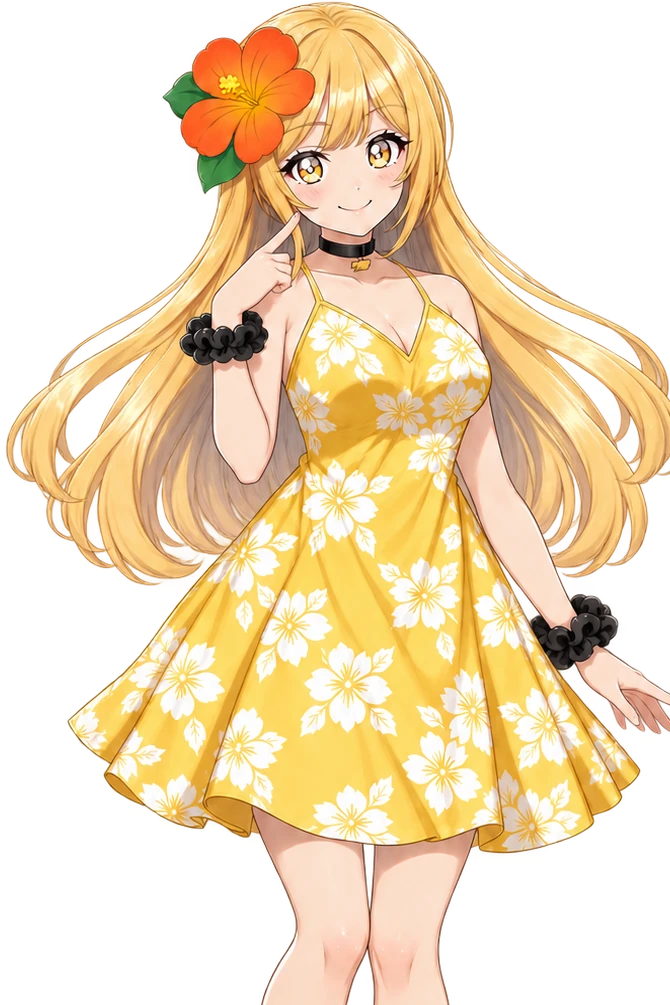
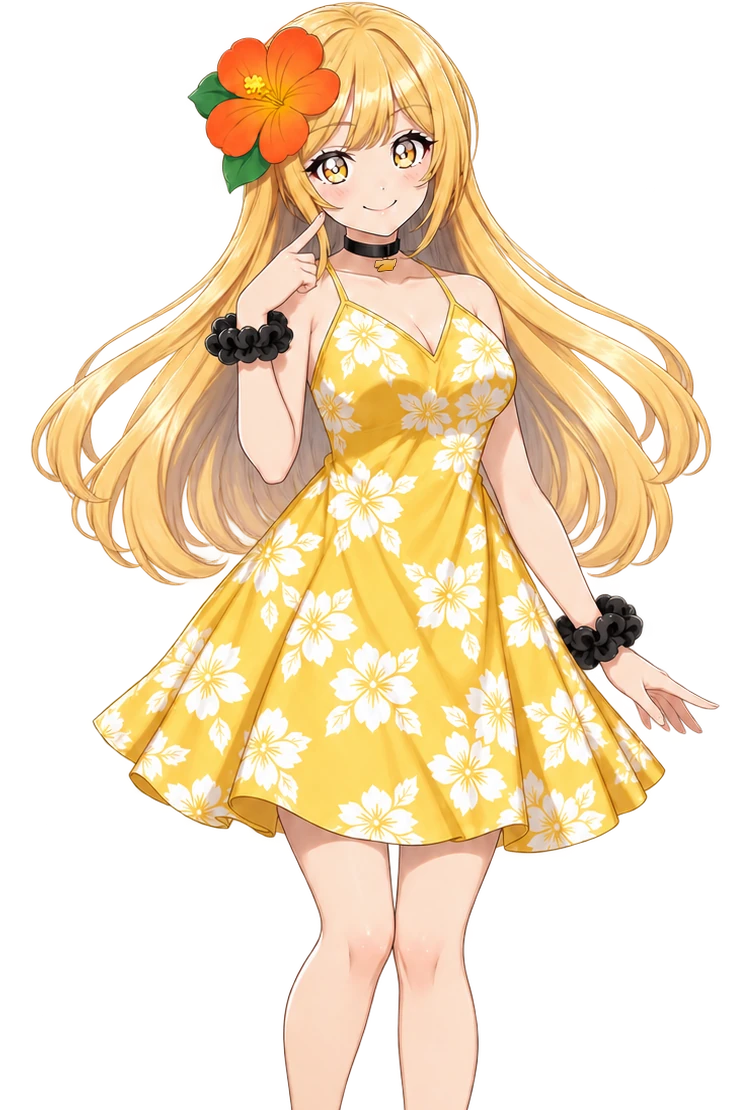
LP: ヒーローのキナナを修正版の絵に差し替え（右手が切れないように切り出しを広げ、表示幅を合わせて大きさは据え置き）

diff --git a/public/editorial/styles.css b/public/editorial/styles.css
@@ -1,8 +1,8 @@
 :root{--paper:#fafbfc;--ink:#111216;--muted:#62656c;--orange:#ef6b12;--band:#ff8b32;--line:#dedfe3;--soft:#eef0f3;font-family:-apple-system,BlinkMacSystemFont,"Hiragino Kaku Gothic ProN","Yu Gothic",sans-serif;color:var(--ink);background:var(--paper);font-synthesis:none;letter-spacing:0}
-*{box-sizing:border-box}html{scroll-behavior:smooth;scroll-padding-top:100px}body{margin:0}a{color:inherit;text-decoration:none}button{font:inherit;color:inherit;cursor:pointer}img{max-width:100%;display:block;height:auto}button,a,summary{-webkit-tap-highlight-color:transparent}button:focus-visible,a:focus-visible,summary:focus-visible,[tabindex]:focus-visible{outline:3px solid #ba4600;outline-offset:5px}em{font-style:normal;color:var(--orange)}h1,h2,h3,p{margin:0}h2{font-size:44px;line-height:1.5;font-weight:850}p{line-height:1.9}section[id]{scroll-margin-top:20px}.skip{position:fixed;top:-100px;left:20px;z-index:100;background:white;padding:15px}.skip:focus{top:15px}.header{height:88px;padding:0 5%;display:flex;align-items:center;justify-content:space-between;gap:30px;border-bottom:1px solid var(--line);background:var(--paper);position:relative;z-index:10}.brand{display:block;flex-shrink:0;width:152px}.brand img{width:100%}.header nav{display:flex;gap:30px;font-size:13px;font-weight:700}.header nav a:hover,.text-link:hover{color:var(--orange)}.button{display:inline-flex;align-items:center;justify-content:center;gap:30px;padding:17px 24px;border:1px solid var(--ink);border-radius:6px;font-size:14px;font-weight:750;min-height:52px;transition:background .18s,transform .18s}.button:hover{background:#e9eaed;transform:translateY(-2px)}.button img,.text-link img{width:18px;height:18px}.primary{background:var(--ink);color:white}.primary img{filter:invert(1)}.primary:hover{background:#303238}.header-cta{font-size:12px;padding:12px 18px;min-height:42px;gap:20px}.menu-button{display:none}.eyebrow{font-size:12px;font-weight:750;line-height:1.5}.eyebrow b{color:var(--orange);margin-right:15px}.hero{overflow:hidden}.hero-copy{text-align:center;padding:56px 24px 0;position:relative;z-index:2}.hero h1{width:270px;margin:22px auto 14px}.hero-headline{font-size:68px;font-weight:900;line-height:1.4}.hero-lead{font-size:16px;color:var(--muted);margin-top:14px}.hero .button{margin-top:25px}.release-status{font-size:11px;color:var(--muted);margin-top:12px}.hero-stage{height:620px;position:relative;margin-top:40px}.stage-band{position:absolute;inset:165px 0 0;background:var(--band)}.hero-devices{height:100%;width:min(1100px,100%);margin:auto;position:relative}.phone{border:6px solid #2d2f34;border-radius:34px;background:#1b1d25;box-shadow:0 22px 40px #11121624;overflow:hidden}.phone img{width:100%}.hero-devices .phone{position:absolute;width:268px;top:70px;transform:rotate(-7deg);left:130px}.hero-devices .phone-main{width:308px;top:0;left:calc(50% - 154px);transform:none;z-index:2}.hero-devices .phone-right{left:auto;right:130px;transform:rotate(7deg)}.kinana{position:absolute;width:365px;right:6px;bottom:-64px;z-index:3}.stage-label{position:absolute;left:30px;bottom:47px;z-index:3}.stage-label>span{font-size:23px;font-weight:850;line-height:1.1;display:block}.stage-label small{display:block;font-size:10px;margin-top:14px}.trust-strip{display:flex;gap:90px;justify-content:center;padding:26px 20px;border-bottom:1px solid var(--line);background:white}.trust-strip span{display:flex;align-items:center;gap:10px;font-size:13px;font-weight:700}.trust-strip img{width:19px}.section{max-width:1180px;margin:auto;padding:100px 30px}.section-heading>p:last-child{color:var(--muted);font-size:16px;margin-top:19px}.section-heading h2{margin-top:22px}.feature-tabs{margin-top:46px;display:grid;grid-template-columns:repeat(3,1fr);border-bottom:1px solid var(--line)}.feature-tabs button{background:none;border:0;border-bottom:3px solid transparent;padding:21px 20px;color:var(--muted);font-size:12px;text-align:left;display:flex;align-items:center;gap:17px}.feature-tabs button span{font-size:17px;font-weight:750}.feature-tabs button[aria-selected=true]{border-color:var(--orange);color:var(--ink)}.feature-panel{display:grid;grid-template-columns:1fr 1fr;min-height:670px;background:#eef0f3;margin-top:32px}.feature-copy{padding:74px 52px;align-self:center}.feature-label{font-size:11px;font-weight:700;color:#a63c00;border:1px solid #d9ab8f;padding:7px 10px;border-radius:3px;display:inline-block}.feature-copy h3{font-size:38px;line-height:1.5;margin-top:23px}.feature-copy>p{color:var(--muted);font-size:15px;margin-top:22px}.feature-copy ul{list-style:none;padding:0;margin:25px 0 34px;font-size:13px;line-height:1.8}.feature-copy li{padding:5px 0 5px 23px;position:relative}.feature-copy li:before,.plan li:before{content:"";background:url(assets/check.svg) center/contain no-repeat;width:16px;height:16px;position:absolute;left:0;top:8px}.text-link{display:inline-flex;align-items:center;gap:18px;font-size:13px;font-weight:700}.feature-screen{position:relative;overflow:hidden;min-width:0}.feature-screen .phone{width:298px;position:relative;margin:53px auto -65px;z-index:1}.screen-word{position:absolute;writing-mode:vertical-rl;right:15px;top:22px;font-size:58px;color:#d1d4da;font-weight:850;line-height:1}.image-note{font-size:11px;color:var(--muted);margin-top:20px}.tools{padding-top:10px}.tools-heading{display:flex;justify-content:space-between;align-items:start;margin-bottom:45px}.tools-heading h2{font-size:32px}.tool-grid{display:grid;grid-template-columns:repeat(4,1fr);border-top:1px solid var(--line)}.tool-grid article{padding:32px 25px 0;border-left:1px solid var(--line);margin-top:28px}.tool-grid article:first-child{border-left:0;padding-left:0}.tool-grid article:last-child{padding-right:0}.tool-grid img{width:28px;margin-bottom:23px}.tool-grid h3{font-size:16px;margin-bottom:12px}.tool-grid p{font-size:13px;color:var(--muted)}.review-band{background:#15171c;color:white;overflow:hidden}.review-inner{display:grid;grid-template-columns:1.1fr 1fr;gap:65px;align-items:center;padding-block:90px}.review-inner h2{font-size:36px;margin:25px 0 22px}.review-inner p:not(.eyebrow){color:#b9bcc3;font-size:14px}.review-inner em{color:#ff983f}.pro-tag{font-size:11px;display:inline-block;border:1px solid #777b84;border-radius:3px;padding:7px 12px;margin-top:24px}.review-inner .fine-print{font-size:10px;margin-top:18px}.review-crop{height:330px;overflow:hidden;border:1px solid #3a3c43;border-radius:8px;position:relative}.review-crop img{width:100%;position:absolute;top:-650px}.plans .section-heading{text-align:center}.billing{display:flex;justify-content:center;margin:32px auto;width:max-content;background:var(--soft);padding:4px;border-radius:6px}.billing button{border:0;background:transparent;padding:10px 26px;font-size:13px;border-radius:4px}.billing button[aria-pressed=true]{background:var(--ink);color:white}.plan-grid{display:grid;grid-template-columns:1fr 1fr;gap:28px;max-width:960px;margin:auto}.plan{border:1px solid var(--line);border-radius:8px;padding:36px;display:flex;flex-direction:column}.plan.pro{border-color:var(--orange);border-top:4px solid var(--orange);padding-top:33px;background:white}.plan-kicker{font-size:12px;color:var(--muted)}.plan h3{font-size:24px;margin:14px 0 24px}.price{font-size:48px;font-weight:800;line-height:1.2;white-space:nowrap;font-variant-numeric:tabular-nums}.price small{font-size:12px;font-weight:500;color:var(--muted)}.plan ul{margin:30px 0;padding:23px 0 0;list-style:none;border-top:1px solid var(--line);flex:1}.plan li{font-size:13px;line-height:1.7;padding:5px 0 5px 25px;position:relative}.plan .button{font-size:13px;justify-content:space-between}.plans>.image-note{max-width:960px;margin:20px auto 0}.faq{border-top:1px solid var(--line);display:grid;grid-template-columns:1fr 1.5fr;gap:80px}.faq h2{font-size:34px;margin:22px 0 30px}.faq-list details{border-bottom:1px solid var(--line)}.faq-list details:first-child{border-top:1px solid var(--line)}summary{cursor:pointer;list-style:none;display:flex;justify-content:space-between;align-items:center;gap:22px;padding:25px 0;font-size:14px;font-weight:700}summary::-webkit-details-marker{display:none}summary img{width:19px;flex-shrink:0;transition:transform .2s}details[open] summary img{transform:rotate(45deg)}details p{font-size:13px;color:var(--muted);padding:0 32px 24px 0}.release{background:var(--band);text-align:center;padding:75px 24px}.release-inner{max-width:900px;margin:auto}.app-icon{margin:0 auto 25px;border-radius:0;box-shadow:0 10px 24px #0002}.release h2{font-size:45px;margin:22px 0 20px;line-height:1.5}.release p{font-size:14px}.coming-soon{display:inline-flex;align-items:center;gap:12px;padding:17px 25px;background:var(--ink);color:white;border-radius:6px;font-size:15px;font-weight:700;margin-top:28px}.coming-soon span{width:6px;height:6px;border-radius:50%;background:var(--band)}.release .release-fine{font-size:11px;margin:13px 0 28px}.release .text-link:hover{color:var(--ink);text-decoration:underline}footer{max-width:1280px;padding:45px 30px;margin:auto;display:flex;align-items:center;gap:40px;flex-wrap:wrap}footer>div{display:flex;gap:25px;margin-left:auto;font-size:11px}footer small{font-size:10px;color:var(--muted);width:100%;text-align:right}.mobile-only{display:none}
+*{box-sizing:border-box}html{scroll-behavior:smooth;scroll-padding-top:100px}body{margin:0}a{color:inherit;text-decoration:none}button{font:inherit;color:inherit;cursor:pointer}img{max-width:100%;display:block;height:auto}button,a,summary{-webkit-tap-highlight-color:transparent}button:focus-visible,a:focus-visible,summary:focus-visible,[tabindex]:focus-visible{outline:3px solid #ba4600;outline-offset:5px}em{font-style:normal;color:var(--orange)}h1,h2,h3,p{margin:0}h2{font-size:44px;line-height:1.5;font-weight:850}p{line-height:1.9}section[id]{scroll-margin-top:20px}.skip{position:fixed;top:-100px;left:20px;z-index:100;background:white;padding:15px}.skip:focus{top:15px}.header{height:88px;padding:0 5%;display:flex;align-items:center;justify-content:space-between;gap:30px;border-bottom:1px solid var(--line);background:var(--paper);position:relative;z-index:10}.brand{display:block;flex-shrink:0;width:152px}.brand img{width:100%}.header nav{display:flex;gap:30px;font-size:13px;font-weight:700}.header nav a:hover,.text-link:hover{color:var(--orange)}.button{display:inline-flex;align-items:center;justify-content:center;gap:30px;padding:17px 24px;border:1px solid var(--ink);border-radius:6px;font-size:14px;font-weight:750;min-height:52px;transition:background .18s,transform .18s}.button:hover{background:#e9eaed;transform:translateY(-2px)}.button img,.text-link img{width:18px;height:18px}.primary{background:var(--ink);color:white}.primary img{filter:invert(1)}.primary:hover{background:#303238}.header-cta{font-size:12px;padding:12px 18px;min-height:42px;gap:20px}.menu-button{display:none}.eyebrow{font-size:12px;font-weight:750;line-height:1.5}.eyebrow b{color:var(--orange);margin-right:15px}.hero{overflow:hidden}.hero-copy{text-align:center;padding:56px 24px 0;position:relative;z-index:2}.hero h1{width:270px;margin:22px auto 14px}.hero-headline{font-size:68px;font-weight:900;line-height:1.4}.hero-lead{font-size:16px;color:var(--muted);margin-top:14px}.hero .button{margin-top:25px}.release-status{font-size:11px;color:var(--muted);margin-top:12px}.hero-stage{height:620px;position:relative;margin-top:40px}.stage-band{position:absolute;inset:165px 0 0;background:var(--band)}.hero-devices{height:100%;width:min(1100px,100%);margin:auto;position:relative}.phone{border:6px solid #2d2f34;border-radius:34px;background:#1b1d25;box-shadow:0 22px 40px #11121624;overflow:hidden}.phone img{width:100%}.hero-devices .phone{position:absolute;width:268px;top:70px;transform:rotate(-7deg);left:130px}.hero-devices .phone-main{width:308px;top:0;left:calc(50% - 154px);transform:none;z-index:2}.hero-devices .phone-right{left:auto;right:130px;transform:rotate(7deg)}.kinana{position:absolute;width:403px;right:-12px;bottom:-71px;z-index:3}.stage-label{position:absolute;left:30px;bottom:47px;z-index:3}.stage-label>span{font-size:23px;font-weight:850;line-height:1.1;display:block}.stage-label small{display:block;font-size:10px;margin-top:14px}.trust-strip{display:flex;gap:90px;justify-content:center;padding:26px 20px;border-bottom:1px solid var(--line);background:white}.trust-strip span{display:flex;align-items:center;gap:10px;font-size:13px;font-weight:700}.trust-strip img{width:19px}.section{max-width:1180px;margin:auto;padding:100px 30px}.section-heading>p:last-child{color:var(--muted);font-size:16px;margin-top:19px}.section-heading h2{margin-top:22px}.feature-tabs{margin-top:46px;display:grid;grid-template-columns:repeat(3,1fr);border-bottom:1px solid var(--line)}.feature-tabs button{background:none;border:0;border-bottom:3px solid transparent;padding:21px 20px;color:var(--muted);font-size:12px;text-align:left;display:flex;align-items:center;gap:17px}.feature-tabs button span{font-size:17px;font-weight:750}.feature-tabs button[aria-selected=true]{border-color:var(--orange);color:var(--ink)}.feature-panel{display:grid;grid-template-columns:1fr 1fr;min-height:670px;background:#eef0f3;margin-top:32px}.feature-copy{padding:74px 52px;align-self:center}.feature-label{font-size:11px;font-weight:700;color:#a63c00;border:1px solid #d9ab8f;padding:7px 10px;border-radius:3px;display:inline-block}.feature-copy h3{font-size:38px;line-height:1.5;margin-top:23px}.feature-copy>p{color:var(--muted);font-size:15px;margin-top:22px}.feature-copy ul{list-style:none;padding:0;margin:25px 0 34px;font-size:13px;line-height:1.8}.feature-copy li{padding:5px 0 5px 23px;position:relative}.feature-copy li:before,.plan li:before{content:"";background:url(assets/check.svg) center/contain no-repeat;width:16px;height:16px;position:absolute;left:0;top:8px}.text-link{display:inline-flex;align-items:center;gap:18px;font-size:13px;font-weight:700}.feature-screen{position:relative;overflow:hidden;min-width:0}.feature-screen .phone{width:298px;position:relative;margin:53px auto -65px;z-index:1}.screen-word{position:absolute;writing-mode:vertical-rl;right:15px;top:22px;font-size:58px;color:#d1d4da;font-weight:850;line-height:1}.image-note{font-size:11px;color:var(--muted);margin-top:20px}.tools{padding-top:10px}.tools-heading{display:flex;justify-content:space-between;align-items:start;margin-bottom:45px}.tools-heading h2{font-size:32px}.tool-grid{display:grid;grid-template-columns:repeat(4,1fr);border-top:1px solid var(--line)}.tool-grid article{padding:32px 25px 0;border-left:1px solid var(--line);margin-top:28px}.tool-grid article:first-child{border-left:0;padding-left:0}.tool-grid article:last-child{padding-right:0}.tool-grid img{width:28px;margin-bottom:23px}.tool-grid h3{font-size:16px;margin-bottom:12px}.tool-grid p{font-size:13px;color:var(--muted)}.review-band{background:#15171c;color:white;overflow:hidden}.review-inner{display:grid;grid-template-columns:1.1fr 1fr;gap:65px;align-items:center;padding-block:90px}.review-inner h2{font-size:36px;margin:25px 0 22px}.review-inner p:not(.eyebrow){color:#b9bcc3;font-size:14px}.review-inner em{color:#ff983f}.pro-tag{font-size:11px;display:inline-block;border:1px solid #777b84;border-radius:3px;padding:7px 12px;margin-top:24px}.review-inner .fine-print{font-size:10px;margin-top:18px}.review-crop{height:330px;overflow:hidden;border:1px solid #3a3c43;border-radius:8px;position:relative}.review-crop img{width:100%;position:absolute;top:-650px}.plans .section-heading{text-align:center}.billing{display:flex;justify-content:center;margin:32px auto;width:max-content;background:var(--soft);padding:4px;border-radius:6px}.billing button{border:0;background:transparent;padding:10px 26px;font-size:13px;border-radius:4px}.billing button[aria-pressed=true]{background:var(--ink);color:white}.plan-grid{display:grid;grid-template-columns:1fr 1fr;gap:28px;max-width:960px;margin:auto}.plan{border:1px solid var(--line);border-radius:8px;padding:36px;display:flex;flex-direction:column}.plan.pro{border-color:var(--orange);border-top:4px solid var(--orange);padding-top:33px;background:white}.plan-kicker{font-size:12px;color:var(--muted)}.plan h3{font-size:24px;margin:14px 0 24px}.price{font-size:48px;font-weight:800;line-height:1.2;white-space:nowrap;font-variant-numeric:tabular-nums}.price small{font-size:12px;font-weight:500;color:var(--muted)}.plan ul{margin:30px 0;padding:23px 0 0;list-style:none;border-top:1px solid var(--line);flex:1}.plan li{font-size:13px;line-height:1.7;padding:5px 0 5px 25px;position:relative}.plan .button{font-size:13px;justify-content:space-between}.plans>.image-note{max-width:960px;margin:20px auto 0}.faq{border-top:1px solid var(--line);display:grid;grid-template-columns:1fr 1.5fr;gap:80px}.faq h2{font-size:34px;margin:22px 0 30px}.faq-list details{border-bottom:1px solid var(--line)}.faq-list details:first-child{border-top:1px solid var(--line)}summary{cursor:pointer;list-style:none;display:flex;justify-content:space-between;align-items:center;gap:22px;padding:25px 0;font-size:14px;font-weight:700}summary::-webkit-details-marker{display:none}summary img{width:19px;flex-shrink:0;transition:transform .2s}details[open] summary img{transform:rotate(45deg)}details p{font-size:13px;color:var(--muted);padding:0 32px 24px 0}.release{background:var(--band);text-align:center;padding:75px 24px}.release-inner{max-width:900px;margin:auto}.app-icon{margin:0 auto 25px;border-radius:0;box-shadow:0 10px 24px #0002}.release h2{font-size:45px;margin:22px 0 20px;line-height:1.5}.release p{font-size:14px}.coming-soon{display:inline-flex;align-items:center;gap:12px;padding:17px 25px;background:var(--ink);color:white;border-radius:6px;font-size:15px;font-weight:700;margin-top:28px}.coming-soon span{width:6px;height:6px;border-radius:50%;background:var(--band)}.release .release-fine{font-size:11px;margin:13px 0 28px}.release .text-link:hover{color:var(--ink);text-decoration:underline}footer{max-width:1280px;padding:45px 30px;margin:auto;display:flex;align-items:center;gap:40px;flex-wrap:wrap}footer>div{display:flex;gap:25px;margin-left:auto;font-size:11px}footer small{font-size:10px;color:var(--muted);width:100%;text-align:right}.mobile-only{display:none}
 @media(min-width:1600px){.hero-stage{height:660px}}
-@media(max-width:1000px){.header{padding:0 25px;gap:18px}.header nav{gap:19px;font-size:12px}.header-cta{display:none}.hero-devices .phone-left{left:7%}.hero-devices .phone-right{right:7%}.kinana{right:-40px;width:335px}.stage-label{left:20px}.feature-copy{padding:45px 32px}.feature-copy h3{font-size:32px}.feature-screen .phone{width:270px}.review-inner{gap:35px}.review-crop img{top:-530px}.review-inner h2{font-size:30px}.trust-strip{gap:45px}.faq{gap:40px}.tool-grid article{padding-inline:17px}}
-@media(max-width:700px){html{scroll-padding-top:75px}h2{font-size:30px}.header{height:72px;padding:0 22px}.brand{width:130px}.menu-button{display:block;background:none;border:0;padding:10px}.menu-button img{width:23px}.header nav{display:none;position:absolute;top:71px;left:0;right:0;background:var(--paper);padding:20px 24px;border-bottom:1px solid var(--line);flex-direction:column;gap:0}.header nav.is-open{display:flex}.header nav a{padding:15px 0;font-size:14px}.hero-copy{padding-top:37px}.hero .eyebrow{font-size:10px}.hero h1{width:200px;margin:20px auto 16px}.hero-headline{font-size:36px;white-space:nowrap}.hero-lead{font-size:13px;margin-top:16px}.mobile-only{display:block}.hero .button{margin-top:22px;padding:15px 21px;font-size:13px}.release-status{font-size:10px}.hero-stage{height:438px;margin-top:30px}.stage-band{top:114px}.hero-devices{width:390px;max-width:100%}.hero-devices .phone-left{width:166px;left:-51px;top:57px;transform:rotate(-9deg)}.hero-devices .phone-main{width:209px;left:calc(50% - 109px);top:0}.hero-devices .phone-right{width:166px;right:-49px;top:57px;transform:rotate(9deg)}.phone{border-width:4px;border-radius:25px}.kinana{width:223px;right:-52px;bottom:-32px}.stage-label{left:13px;bottom:25px}.stage-label>span{font-size:14px}.stage-label small{font-size:7px;margin-top:8px}.trust-strip{gap:12px;justify-content:space-around;padding:20px 12px}.trust-strip span{font-size:10px;gap:5px}.trust-strip img{width:14px}.section{padding:65px 23px}.section-heading h2{margin-top:19px}.section-heading>p:last-child{font-size:13px}.eyebrow{font-size:10px}.feature-tabs{margin-top:32px}.feature-tabs button{padding:15px 4px;gap:8px;font-size:9px;flex-direction:column;align-items:start}.feature-tabs button span{font-size:12px}.feature-panel{grid-template-columns:1fr;min-height:0;margin-top:23px}.feature-copy{padding:32px 27px}.feature-copy h3{font-size:30px;margin-top:19px}.feature-copy>p{font-size:13px;margin-top:17px}.feature-copy ul{font-size:11px;margin:17px 0 22px}.feature-label{font-size:9px}.feature-screen{height:475px}.feature-screen .phone{width:240px;margin-top:5px}.screen-word{font-size:43px;right:5px}.image-note{font-size:9px}.tools{padding-top:0}.tools-heading{display:block;margin-bottom:28px}.tools-heading h2{font-size:28px;margin-top:20px}.tool-grid{grid-template-columns:1fr 1fr;gap:30px 24px}.tool-grid article,.tool-grid article:first-child{border:0;padding:0;margin-top:28px}.tool-grid article:nth-child(n+3){margin-top:0}.tool-grid img{width:25px;margin-bottom:15px}.tool-grid h3{font-size:14px;line-height:1.7}.tool-grid p{font-size:12px}.review-inner{grid-template-columns:1fr;gap:35px}.review-inner h2{font-size:29px}.review-inner p:not(.eyebrow){font-size:13px}.review-inner .fine-print{font-size:9px}.review-crop{height:290px;max-width:380px;width:100%;margin:auto}.review-crop img{top:calc(-1 * (100vw - 48px) * 1.41)}.plans .section-heading{text-align:left}.plans h2{font-size:27px}.billing{margin-block:28px}.plan-grid{grid-template-columns:1fr;gap:20px}.plan{padding:28px}.plan.pro{padding-top:25px}.plan h3{font-size:22px}.price{font-size:43px}.plan li{font-size:12px}.faq{grid-template-columns:1fr;gap:27px}.faq h2{font-size:30px;margin-bottom:20px}summary{font-size:12px;padding:23px 0}details p{font-size:12px}.release{padding:58px 23px}.release h2{font-size:30px}.release p{font-size:12px}.release .eyebrow{font-size:10px}.release .release-fine{font-size:10px}.coming-soon{font-size:13px}footer{padding:33px 23px;gap:26px}footer>div{margin:0;gap:19px;font-size:10px;flex-wrap:wrap}footer small{text-align:left;font-size:9px}}
+@media(max-width:1000px){.header{padding:0 25px;gap:18px}.header nav{gap:19px;font-size:12px}.header-cta{display:none}.hero-devices .phone-left{left:7%}.hero-devices .phone-right{right:7%}.kinana{right:-56px;width:370px}.stage-label{left:20px}.feature-copy{padding:45px 32px}.feature-copy h3{font-size:32px}.feature-screen .phone{width:270px}.review-inner{gap:35px}.review-crop img{top:-530px}.review-inner h2{font-size:30px}.trust-strip{gap:45px}.faq{gap:40px}.tool-grid article{padding-inline:17px}}
+@media(max-width:700px){html{scroll-padding-top:75px}h2{font-size:30px}.header{height:72px;padding:0 22px}.brand{width:130px}.menu-button{display:block;background:none;border:0;padding:10px}.menu-button img{width:23px}.header nav{display:none;position:absolute;top:71px;left:0;right:0;background:var(--paper);padding:20px 24px;border-bottom:1px solid var(--line);flex-direction:column;gap:0}.header nav.is-open{display:flex}.header nav a{padding:15px 0;font-size:14px}.hero-copy{padding-top:37px}.hero .eyebrow{font-size:10px}.hero h1{width:200px;margin:20px auto 16px}.hero-headline{font-size:36px;white-space:nowrap}.hero-lead{font-size:13px;margin-top:16px}.mobile-only{display:block}.hero .button{margin-top:22px;padding:15px 21px;font-size:13px}.release-status{font-size:10px}.hero-stage{height:438px;margin-top:30px}.stage-band{top:114px}.hero-devices{width:390px;max-width:100%}.hero-devices .phone-left{width:166px;left:-51px;top:57px;transform:rotate(-9deg)}.hero-devices .phone-main{width:209px;left:calc(50% - 109px);top:0}.hero-devices .phone-right{width:166px;right:-49px;top:57px;transform:rotate(9deg)}.phone{border-width:4px;border-radius:25px}.kinana{width:246px;right:-58px;bottom:-35px}.stage-label{left:13px;bottom:25px}.stage-label>span{font-size:14px}.stage-label small{font-size:7px;margin-top:8px}.trust-strip{gap:12px;justify-content:space-around;padding:20px 12px}.trust-strip span{font-size:10px;gap:5px}.trust-strip img{width:14px}.section{padding:65px 23px}.section-heading h2{margin-top:19px}.section-heading>p:last-child{font-size:13px}.eyebrow{font-size:10px}.feature-tabs{margin-top:32px}.feature-tabs button{padding:15px 4px;gap:8px;font-size:9px;flex-direction:column;align-items:start}.feature-tabs button span{font-size:12px}.feature-panel{grid-template-columns:1fr;min-height:0;margin-top:23px}.feature-copy{padding:32px 27px}.feature-copy h3{font-size:30px;margin-top:19px}.feature-copy>p{font-size:13px;margin-top:17px}.feature-copy ul{font-size:11px;margin:17px 0 22px}.feature-label{font-size:9px}.feature-screen{height:475px}.feature-screen .phone{width:240px;margin-top:5px}.screen-word{font-size:43px;right:5px}.image-note{font-size:9px}.tools{padding-top:0}.tools-heading{display:block;margin-bottom:28px}.tools-heading h2{font-size:28px;margin-top:20px}.tool-grid{grid-template-columns:1fr 1fr;gap:30px 24px}.tool-grid article,.tool-grid article:first-child{border:0;padding:0;margin-top:28px}.tool-grid article:nth-child(n+3){margin-top:0}.tool-grid img{width:25px;margin-bottom:15px}.tool-grid h3{font-size:14px;line-height:1.7}.tool-grid p{font-size:12px}.review-inner{grid-template-columns:1fr;gap:35px}.review-inner h2{font-size:29px}.review-inner p:not(.eyebrow){font-size:13px}.review-inner .fine-print{font-size:9px}.review-crop{height:290px;max-width:380px;width:100%;margin:auto}.review-crop img{top:calc(-1 * (100vw - 48px) * 1.41)}.plans .section-heading{text-align:left}.plans h2{font-size:27px}.billing{margin-block:28px}.plan-grid{grid-template-columns:1fr;gap:20px}.plan{padding:28px}.plan.pro{padding-top:25px}.plan h3{font-size:22px}.price{font-size:43px}.plan li{font-size:12px}.faq{grid-template-columns:1fr;gap:27px}.faq h2{font-size:30px;margin-bottom:20px}summary{font-size:12px;padding:23px 0}details p{font-size:12px}.release{padding:58px 23px}.release h2{font-size:30px}.release p{font-size:12px}.release .eyebrow{font-size:10px}.release .release-fine{font-size:10px}.coming-soon{font-size:13px}footer{padding:33px 23px;gap:26px}footer>div{margin:0;gap:19px;font-size:10px;flex-wrap:wrap}footer small{text-align:left;font-size:9px}}
 @media(min-width:430px) and (max-width:700px){.review-crop img{top:-538px}}
 @media(max-width:360px){.hero-headline{font-size:28px}.trust-strip{gap:8px}.trust-strip span{font-size:9px}.hero-devices .phone-main{width:198px;left:calc(50% - 104px)}.feature-tabs button span{font-size:11px}.plan{padding:23px}.price{font-size:39px}}
 .review-crop{height:auto;aspect-ratio:844/400;border:0;border-radius:8px;max-width:100%}.review-crop img{position:static;width:100%}
